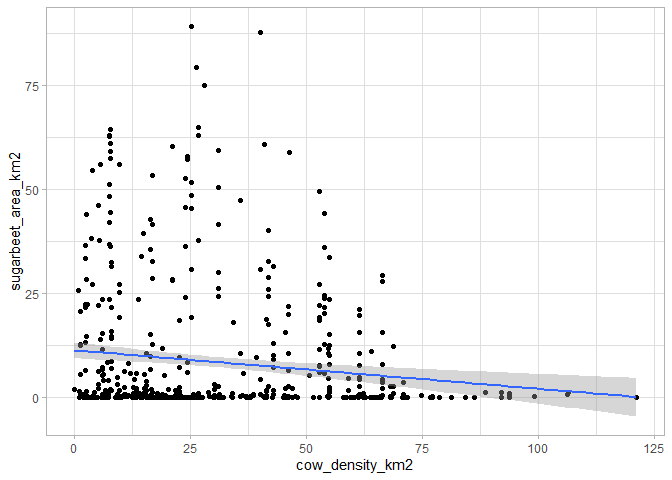
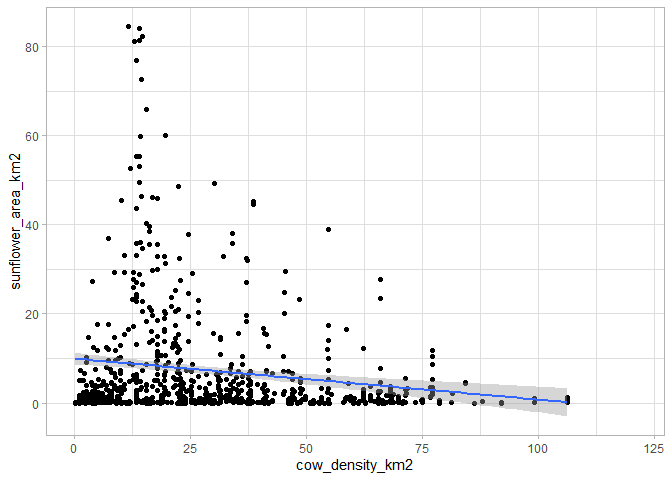
update readme

diff --git a/README.md b/README.md
@@ -102,7 +102,7 @@ given to animals.
 This is not the case when comparing cow density with sugarbeet, a crop
 more traditionally associated with farms without livestock:
 
-    ggplot(data,aes(x=cow_density_km2,y=sugarbeet_area_km2))+
+    ggplot(data,aes(x=cow_density_km2,y=sunflower_area_km2))+
       geom_point()+
       geom_smooth(method='lm')+
       theme_light()
